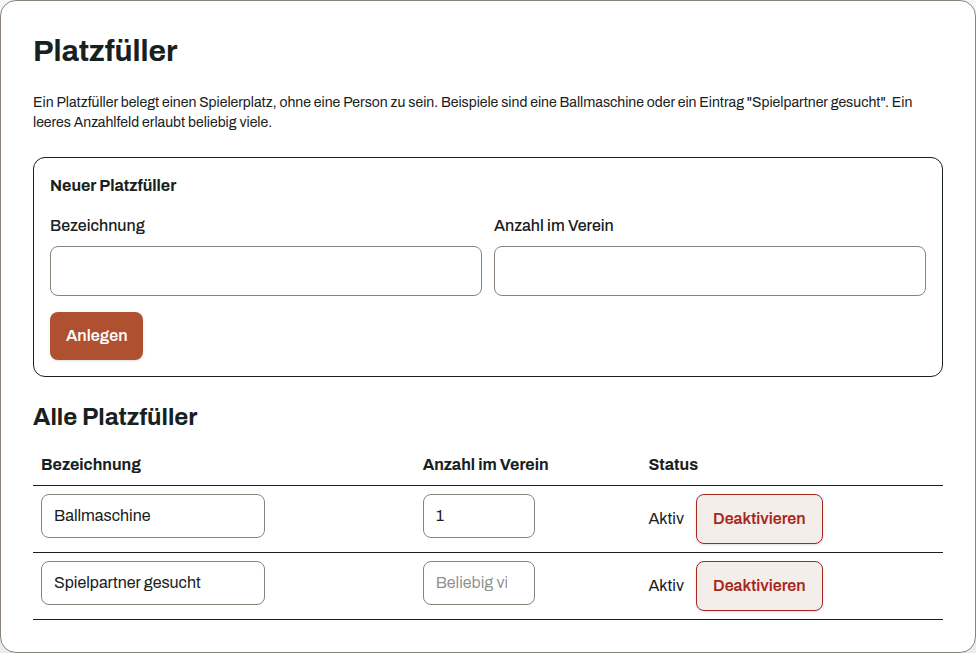
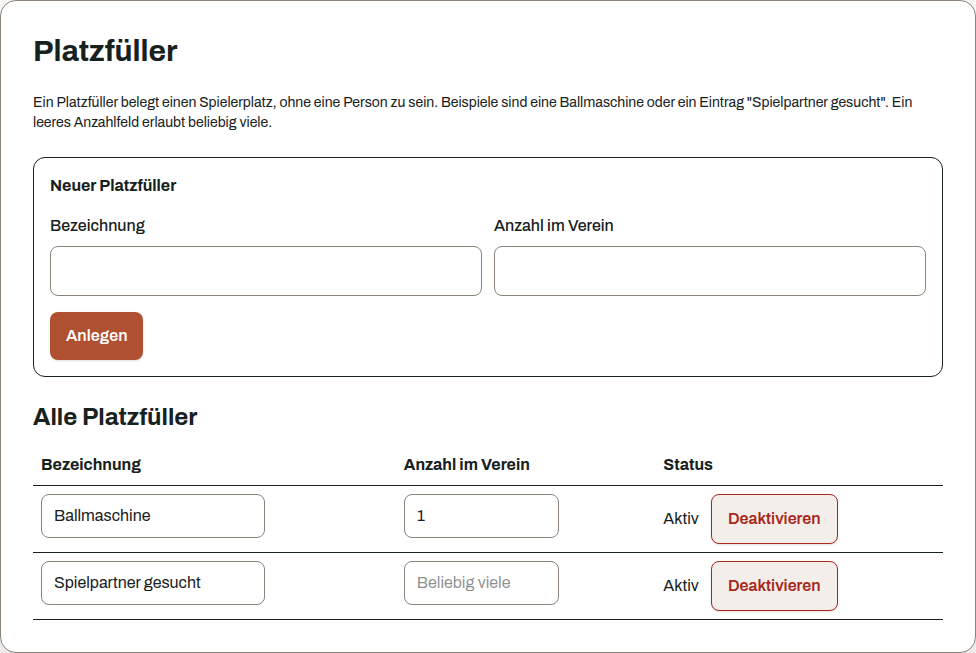
fix(frontend): keep export selects inside their section and show the whole filler count placeholder (#1609)
* fix(frontend): keep export selects inside their section and show the whole filler count placeholder

The export page's selects sized themselves to their longest option, so the
character set and the import source reached past their section from 820 px
down. They now take their field's width, as #1585 did for the other selects.
The slot filler row's count field sizes itself to its placeholder plus room
for the spin control, so "Any number" and "Beliebig viele" show whole.

Claude-Session: https://claude.ai/code/session_01PckccRXvkTqaEnEqQLqqZc

* test(frontend): accept the slot filler baselines with the whole count placeholder

Claude-Session: https://claude.ai/code/session_01PckccRXvkTqaEnEqQLqqZc

---------

diff --git a/frontend/e2e/responsive-mobile.spec.ts b/frontend/e2e/responsive-mobile.spec.ts
@@ -638,6 +638,36 @@ test.describe("without a service worker, so the page's own requests can be answe
     }
     await expectNoHorizontalOverflow(page);
   });
+
+  for (const width of [390, 820]) {
+    test(`given a ${width} px wide window and a long import source name, when the data export is read, then every field ends inside its section`, async ({ page }) => {
+      // given
+      await page.setViewportSize({ width, height: 1180 });
+      await signIn(page, "configuration-admin");
+      await expect(page.getByTestId("administration-link")).toBeVisible();
+      const sources = await page.evaluate(() => fetch("/api/admin/import/sources").then((answer) => answer.json())) as { id: string; displayName: string }[];
+      const longName = "Acceptance member list exported by the previous club software with a name longer than the screen";
+      const named = sources.length > 0 ? sources.map((source) => ({ ...source, displayName: longName }))
+        : [{ id: "90000000-0000-0000-0000-000000000077", displayName: longName, separator: ",", encoding: "UTF-8" }];
+      await page.route("**/api/admin/import/sources", (route) => route.fulfill({ json: named }));
+
+      // when
+      await page.goto("/admin/export");
+      await expect(page.getByTestId("roster-export-source").locator("option", { hasText: longName }), "the source offered is the long one the layout must absorb").toBeAttached();
+
+      // then
+      const escaping = await page.locator('section[data-testid$="export"]').evaluateAll((sections) => sections.flatMap((section) => {
+        const bounds = section.getBoundingClientRect();
+        const inner = bounds.right - parseFloat(getComputedStyle(section).paddingRight) - parseFloat(getComputedStyle(section).borderRightWidth);
+        return [...section.querySelectorAll("select, input")]
+          .filter((field) => field.getBoundingClientRect().right > inner + 0.5)
+          .map((field) => `${field.getAttribute("data-testid")} ends at ${Math.round(field.getBoundingClientRect().right)} past ${Math.round(inner)}`);
+      }));
+      await expect(page.locator('section[data-testid$="export"]'), "the roster, bookings and both log exports are measured").toHaveCount(4);
+      expect(escaping, "every export field ends inside its section").toEqual([]);
+      await expectNoHorizontalOverflow(page);
+    });
+  }
 });
 
 test("the initial-password form remains usable on a touch viewport", async ({ page }) => {
@@ -1126,6 +1156,35 @@ for (const width of [820, 1024]) {
     const name = await page.getByTestId("new-court-name").boundingBox();
     expect(number!.y, "the two fields share a row at this width").toBeCloseTo(name!.y, 0);
     expect(number!.x + number!.width, "the number input stays inside its column").toBeLessThanOrEqual(name!.x);
+  });
+}
+
+for (const [width, locale] of [[390, "de-DE"], [390, "en-GB"], [1280, "de-DE"], [1280, "en-GB"]] as const) {
+  test(`given a ${width} px wide window in ${locale}, when a slot filler without a count is listed, then its count field shows the whole placeholder`, async ({ page }) => {
+    // given
+    await page.setViewportSize({ width, height: 900 });
+    await signIn(page, "configuration-admin");
+    await expect(page.getByTestId("administration-link")).toBeVisible();
+    await page.evaluate((chosen) => window.localStorage.setItem("courtside.locale", chosen), locale);
+
+    // when
+    await page.goto("/admin/facility/slot-fillers");
+    const count = page.getByTestId("edit-participant-card-capacity-66666666-6666-6666-6666-666666666666");
+    await expect(count).toBeVisible();
+    await expect(page.locator("html")).toHaveAttribute("lang", locale.slice(0, 2));
+    await page.evaluate(() => document.fonts.ready);
+
+    // then
+    const room = await count.evaluate((field) => {
+      const input = field as HTMLInputElement;
+      const style = getComputedStyle(input);
+      const context = document.createElement("canvas").getContext("2d")!;
+      context.font = style.font;
+      const content = input.clientWidth - parseFloat(style.paddingLeft) - parseFloat(style.paddingRight);
+      return { placeholder: input.placeholder, text: Math.ceil(context.measureText(input.placeholder).width), content: Math.floor(content) };
+    });
+    expect(room.placeholder, "the empty count shows a placeholder").not.toBe("");
+    expect(room.text + 24, `"${room.placeholder}" and a spin control fit the field (${JSON.stringify(room)})`).toBeLessThanOrEqual(room.content);
   });
 }
 

diff --git a/frontend/src/views/RosterExport.tsx b/frontend/src/views/RosterExport.tsx
@@ -63,11 +63,11 @@ export function RosterExport({ query, membershipTypeId, disabled, onFailure }: P
     <h2 className="text-2xl font-bold">{t("admin.roster.export")}</h2>
     <p className="text-muted text-sm">{t("admin.roster.exportExplain")}</p>
     <div className="grid gap-3 sm:grid-cols-3">
-      <label className="grid gap-2 font-medium">
+      <label className="grid min-w-0 gap-2 font-medium">
         {t("admin.roster.exportSeparator")}
         <select
           data-testid="roster-export-separator"
-          className="form-control rounded-lg border px-3 py-3"
+          className="form-control w-full min-w-0 rounded-lg border px-3 py-3"
           value={separator}
           onChange={(event) => setSeparator(event.target.value)}
         >
@@ -75,22 +75,22 @@ export function RosterExport({ query, membershipTypeId, disabled, onFailure }: P
             <option key={character} value={character}>{t(`admin.roster.separator.${character}`)}</option>)}
         </select>
       </label>
-      <label className="grid gap-2 font-medium">
+      <label className="grid min-w-0 gap-2 font-medium">
         {t("admin.roster.exportEncoding")}
         <select
           data-testid="roster-export-encoding"
-          className="form-control rounded-lg border px-3 py-3"
+          className="form-control w-full min-w-0 rounded-lg border px-3 py-3"
           value={encoding}
           onChange={(event) => setEncoding(event.target.value)}
         >
           {encodings.map((name) => <option key={name} value={name}>{name}</option>)}
         </select>
       </label>
-      {sources.length > 0 && <label className="grid gap-2 font-medium">
+      {sources.length > 0 && <label className="grid min-w-0 gap-2 font-medium">
         {t("admin.roster.exportSource")}
         <select
           data-testid="roster-export-source"
-          className="form-control rounded-lg border px-3 py-3"
+          className="form-control w-full min-w-0 rounded-lg border px-3 py-3"
           value={sourceId}
           onChange={(event) => setSourceId(event.target.value)}
         >

diff --git a/frontend/src/views/facility/AdminSlotFillersView.tsx b/frontend/src/views/facility/AdminSlotFillersView.tsx
@@ -147,10 +147,14 @@ function ParticipantCardRow({ card, entry, refused, disabled, entered, toggle }:
     </td>
     <td className={cell}>
       <span aria-hidden="true" data-testid="participant-card-label-owned" className={label}>{t("admin.facility.owned")}</span>
-      <input data-testid={`edit-participant-card-capacity-${card.id}`} className={`${field} w-28`} type="number" min={1} max={99}
-             aria-label={t("admin.facility.editParticipantCardCapacity")} aria-invalid={(refused && !validCapacity(entry)) || undefined}
-             placeholder={t("admin.facility.unlimited")}
-             disabled={disabled} value={entry.capacity} onChange={(event) => entered({ capacity: event.target.value })} />
+      {/* The hidden copy of the placeholder sizes the field, with room left for the spin control. */}
+      <span className="inline-grid min-w-0 max-w-full justify-self-start">
+        <span aria-hidden="true" className="invisible col-start-1 row-start-1 overflow-hidden whitespace-pre border px-3 py-2 pr-12">{t("admin.facility.unlimited")}</span>
+        <input data-testid={`edit-participant-card-capacity-${card.id}`} className={`${field} col-start-1 row-start-1 w-full min-w-0`} type="number" min={1} max={99}
+               aria-label={t("admin.facility.editParticipantCardCapacity")} aria-invalid={(refused && !validCapacity(entry)) || undefined}
+               placeholder={t("admin.facility.unlimited")}
+               disabled={disabled} value={entry.capacity} onChange={(event) => entered({ capacity: event.target.value })} />
+      </span>
     </td>
     <td className={cell}>
       <span aria-hidden="true" data-testid="participant-card-label-status" className={label}>{t("admin.facility.columnStatus")}</span>

diff --git a/frontend/src/views/BookingsExport.tsx b/frontend/src/views/BookingsExport.tsx
@@ -61,11 +61,11 @@ export function BookingsExport({ onFailure }: Props) {
       <div className="grid gap-3 sm:grid-cols-4">
         <TextField data-testid="bookings-export-from" name="from" type="date" required label={t("admin.export.from")} />
         <TextField data-testid="bookings-export-to" name="to" type="date" required label={t("admin.export.to")} />
-        <label className="grid gap-2 font-medium">
+        <label className="grid min-w-0 gap-2 font-medium">
           {t("admin.export.separator")}
           <select
             data-testid="bookings-export-separator"
-            className="form-control rounded-lg border px-3 py-3"
+            className="form-control w-full min-w-0 rounded-lg border px-3 py-3"
             value={separator}
             onChange={(event) => setSeparator(event.target.value)}
           >
@@ -73,11 +73,11 @@ export function BookingsExport({ onFailure }: Props) {
               <option key={character} value={character}>{t(`admin.export.separator.${character}`)}</option>)}
           </select>
         </label>
-        <label className="grid gap-2 font-medium">
+        <label className="grid min-w-0 gap-2 font-medium">
           {t("admin.export.encoding")}
           <select
             data-testid="bookings-export-encoding"
-            className="form-control rounded-lg border px-3 py-3"
+            className="form-control w-full min-w-0 rounded-lg border px-3 py-3"
             value={encoding}
             onChange={(event) => setEncoding(event.target.value)}
           >

diff --git a/frontend/src/views/LogExport.tsx b/frontend/src/views/LogExport.tsx
@@ -64,11 +64,11 @@ export function LogExport({ log, onFailure }: Props) {
       <div className="grid gap-3 sm:grid-cols-4">
         <TextField data-testid={`${id}-from`} name="from" type="date" label={t("admin.export.log.from")} />
         <TextField data-testid={`${id}-to`} name="to" type="date" label={t("admin.export.log.to")} />
-        <label className="grid gap-2 font-medium">
+        <label className="grid min-w-0 gap-2 font-medium">
           {t("admin.export.separator")}
           <select
             data-testid={`${id}-separator`}
-            className="form-control rounded-lg border px-3 py-3"
+            className="form-control w-full min-w-0 rounded-lg border px-3 py-3"
             value={separator}
             onChange={(event) => setSeparator(event.target.value)}
           >
@@ -76,11 +76,11 @@ export function LogExport({ log, onFailure }: Props) {
               <option key={character} value={character}>{t(`admin.export.separator.${character}`)}</option>)}
           </select>
         </label>
-        <label className="grid gap-2 font-medium">
+        <label className="grid min-w-0 gap-2 font-medium">
           {t("admin.export.encoding")}
           <select
             data-testid={`${id}-encoding`}
-            className="form-control rounded-lg border px-3 py-3"
+            className="form-control w-full min-w-0 rounded-lg border px-3 py-3"
             value={encoding}
             onChange={(event) => setEncoding(event.target.value)}
           >
